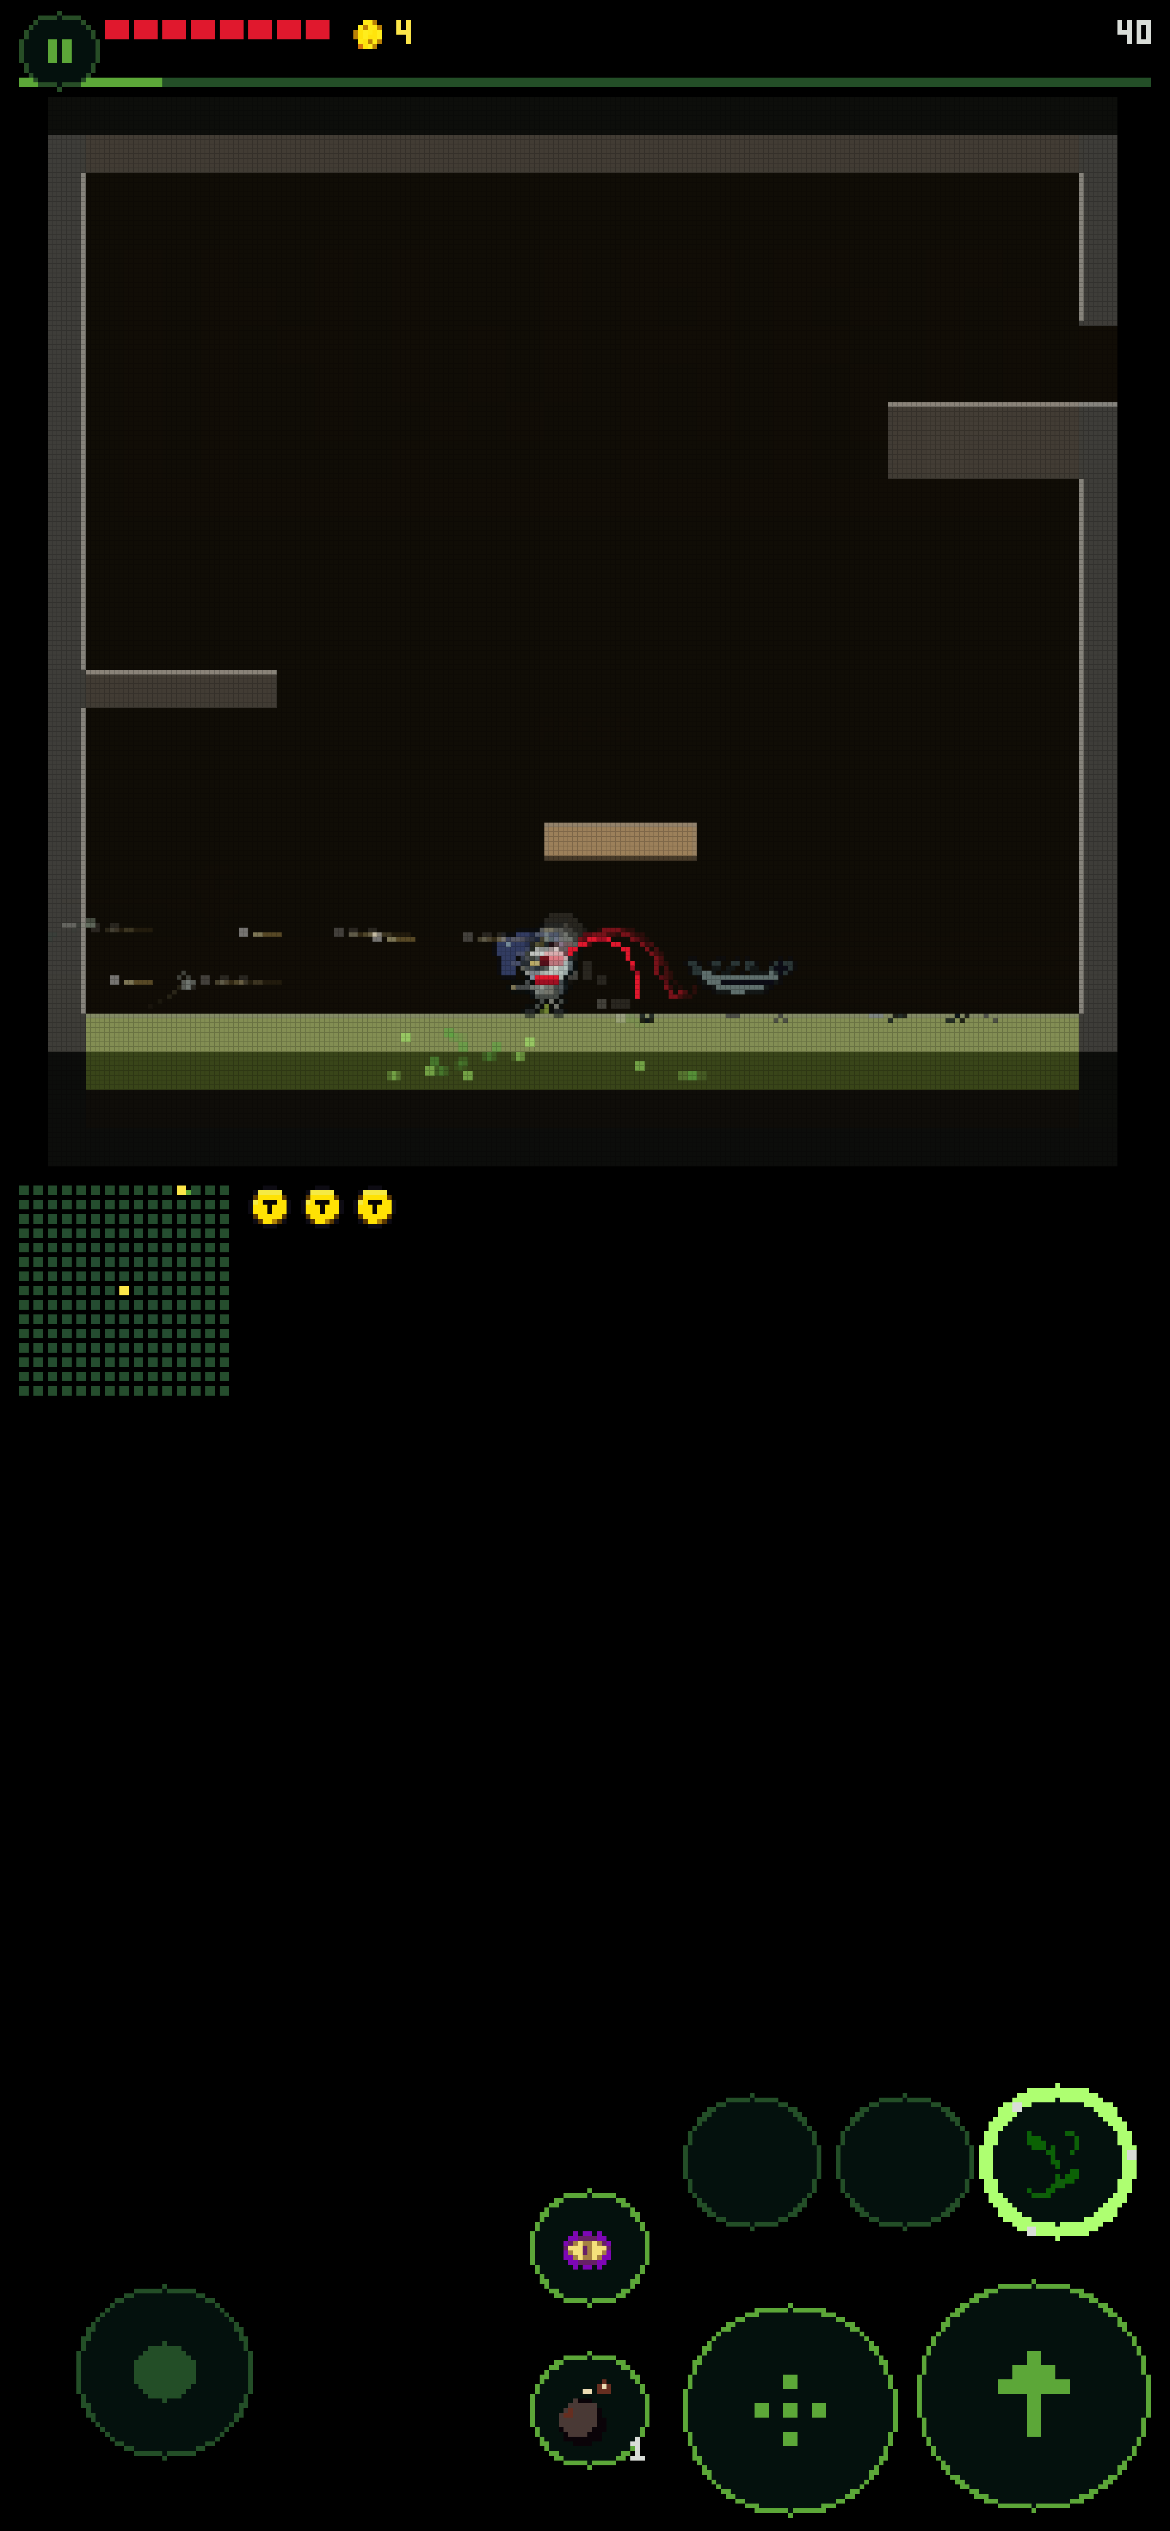
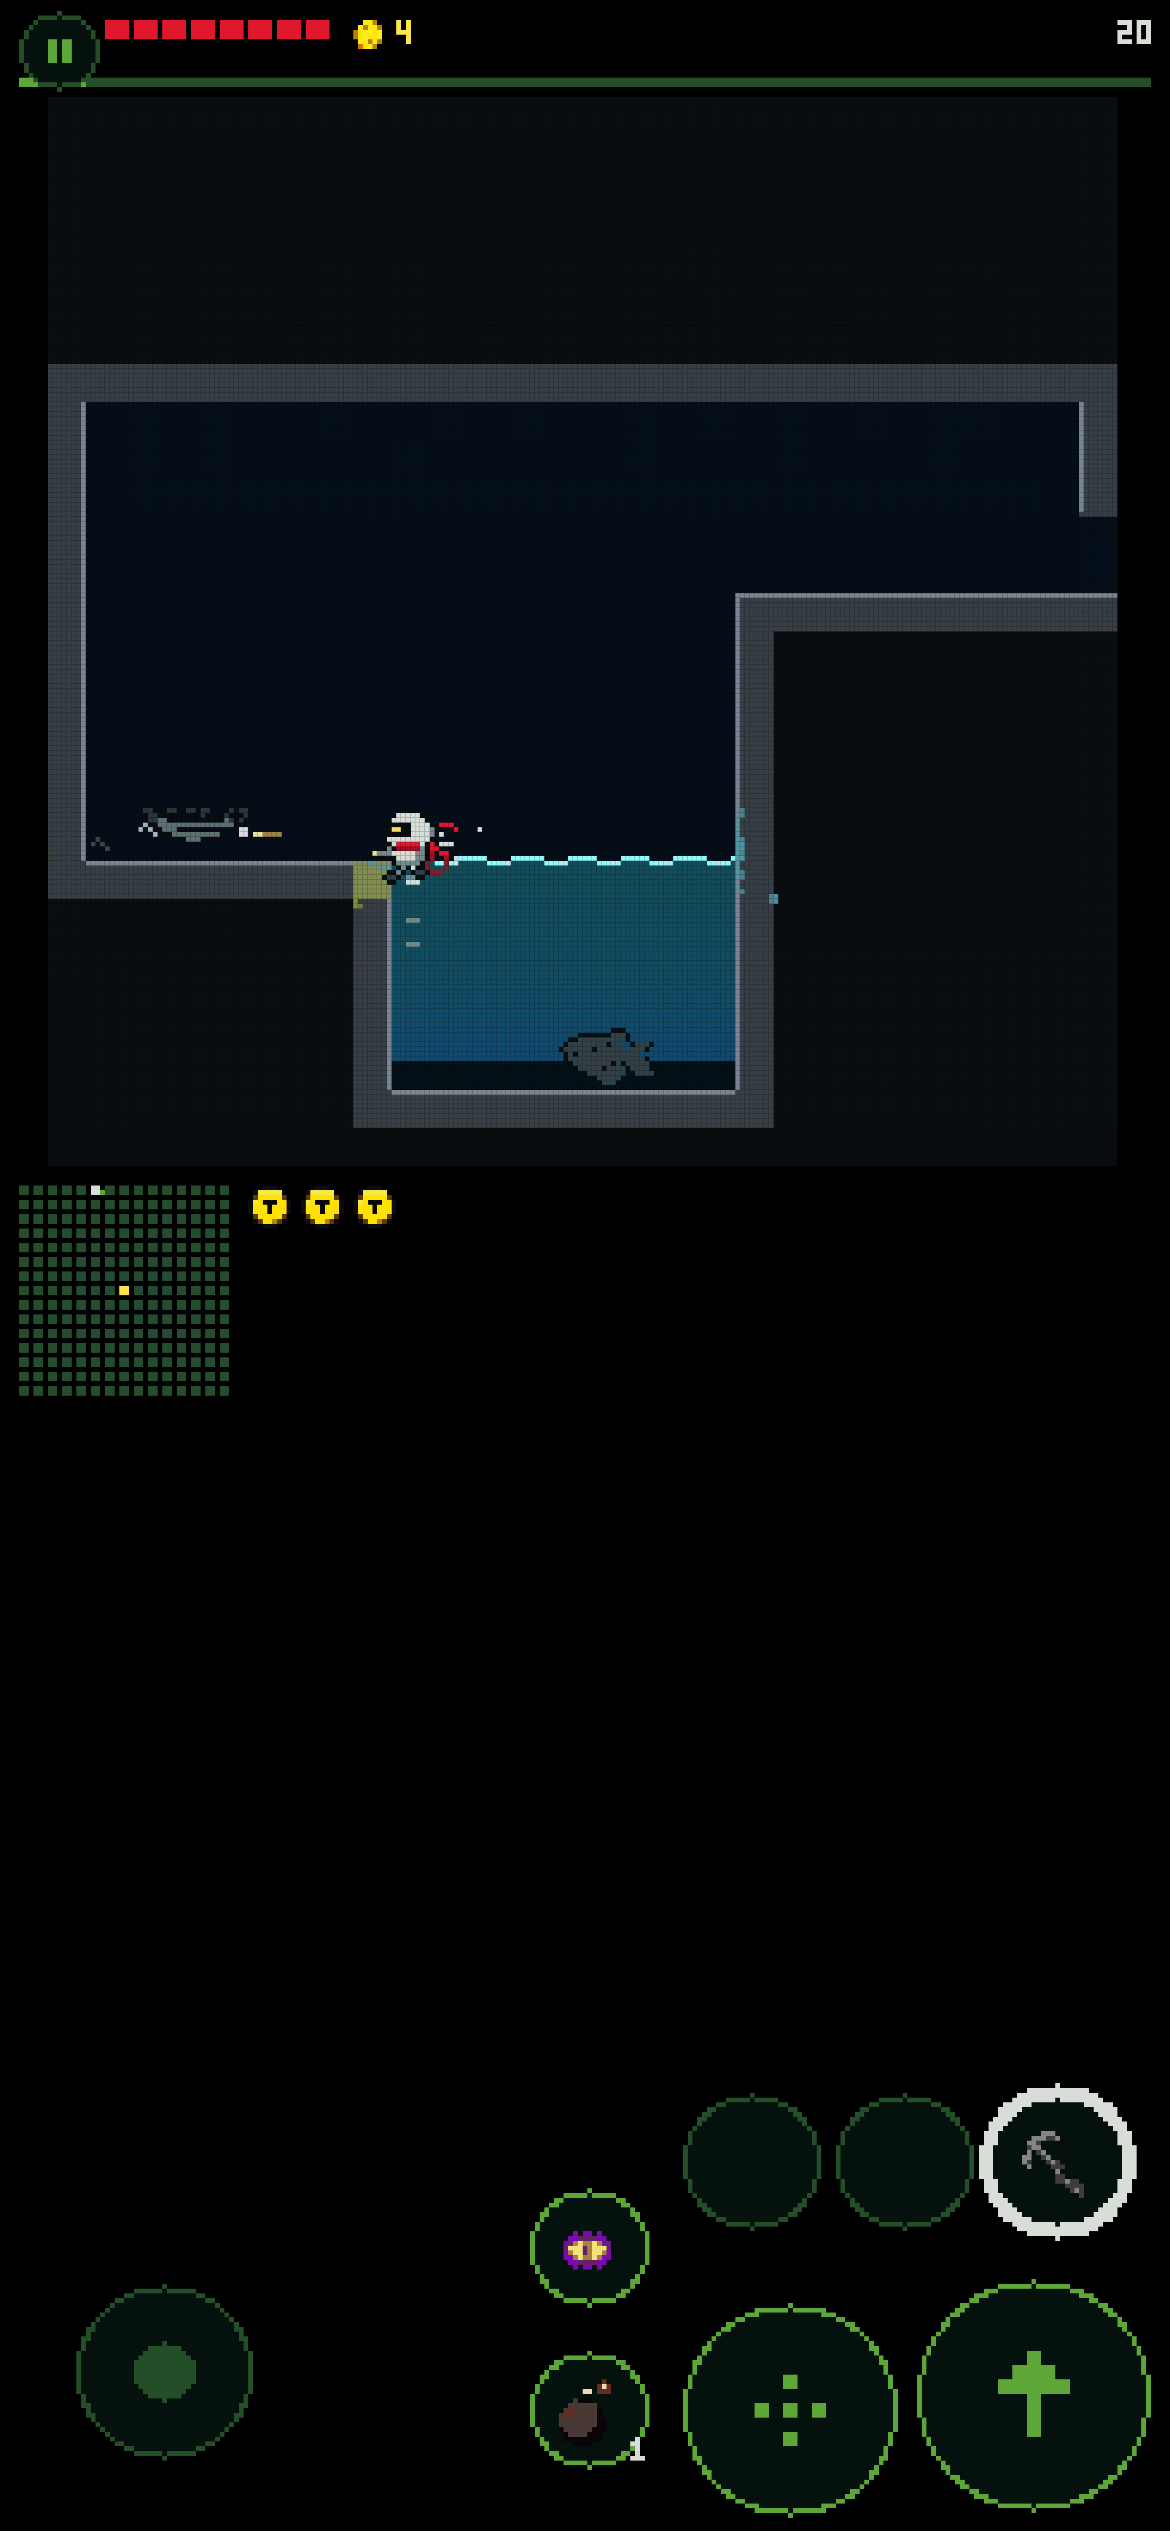
New powers are rarer and get a moment and a room of their own
Levels cost 40 experience per level reached, so upgrades come about 4.5
times less often than the original curve, and skill cards, miners and
hermits thin out to match. A level-up is a full heal.

Taking a skill or form, including swapping one in with full slots, slows
time for a beat with a burst in its colour. The next unvisited room is
built around it: the pockets and materials it acts on, a layout suited
to a movement skill, or a few extra foes for a control skill.

diff --git a/src/game.js b/src/game.js
@@ -12,10 +12,10 @@ import { contactBox, shotBox } from './cast.js'
 import { ENEMY_DEFS, STEPPERS, clampToRoom, createEnemy, lineClear, onDeath, puppeted, seatEnemy, settleFooting, steerPuppet } from './enemies.js'
 import { swim } from './earth.js'
 import { FORKS, SKILLS, SKILL_DETAILS, SKILL_NAMES, TREES, cooldownOf, formOf, landSlam, muzzle, openFork, owns, pourAcid, recordTrail, releaseMatter, ring, salvage, spillMatter, spillNapalm, stepDash, torchNear } from './skills.js'
-import { feedEvent, stepFeeds, stepHand } from './feed.js'
+import { feedColour, feedEvent, stepFeeds, stepHand } from './feed.js'
 import { composeOffer } from './offers.js'
 import { dust } from './feel.js'
-import { beginDoor, blastFx, chipsAt, coinMote, createFx, fallFx, impact, killFx, levelBurstDone, roomClearFx, shotFx, splash, stepFx, timeScale, wallHitFx, xpMotes } from './fx.js'
+import { beginDoor, blastFx, chipsAt, coinMote, createFx, fallFx, impact, killFx, levelBurstDone, roomClearFx, shotFx, slowMo, splash, stepFx, timeScale, wallHitFx, xpMotes } from './fx.js'
 import { SKILL_ACTIONS, skillAction } from './controls.js'
 import { RELICS, RELIC_BY_ID, hasRelic } from './relics.js'
 import { stepEffectList } from './effects.js'
@@ -25,6 +25,7 @@ import { isCatalogued, isKnown, knownFrom, knownOf, meet, pickSecrets, plantsFor
 import { OMENS, applyOmens, omenFoes, omenTheme } from './omens.js'
 import { buildArena, openArena, stepArena } from './wardens.js'
 import { exitsFrom } from './reach.js'
+import { stageFor } from './showcase.js'
 import { KEYSTONE_BY_ID, bombReady, bombThrown, castWait, crowdedOut, hasKeystone, heartCap, openKeystones, rechargeRate, slotsOf, stainColour, stainStrikes, stepKeystones } from './keystones.js'
 import { MUTATION_BY_ID, deepKill, mutateFoe, rollMutation, stepMutations } from './deep.js'
 import { emptyTally, noteKill, outwitted, wardedAgainst } from './wards.js'
@@ -251,8 +252,8 @@ const POCKET_HOOKS = {
   },
 }
 
-const thinFoes = (g, ring, foes) => {
-  const limit = R.foeLimit[ring] * (g.omens.includes('swarm') ? 1.6 : 1)
+const thinFoes = (g, ring, extra, foes) => {
+  const limit = R.foeLimit[ring] * (g.omens.includes('swarm') ? 1.6 : 1) + extra
   const kept = []
   const protectedKinds = new Set((g.secrets ?? []).map(key => key.split(':')[1]))
   let load = foes.filter(e => protectedKinds.has(e.kind)).reduce((n, e) => n + crowding(e), 0)
@@ -274,7 +275,9 @@ const buildRoom = (g, x, y) => {
   const depth = ring / CORE_RING
   const themeIndex = regionFor(g, ring)
   const arenaId = arenaFor(g, key, ring)
-  const special = start || arenaId ? {} : withPlant(g, ring, rollSpecial(g))
+  const showcase = start || arenaId || ring === CORE_RING ? null : stageFor(g.showcase)
+  if (showcase) g.showcase = null
+  const special = start || arenaId ? {} : { ...withPlant(g, ring, rollSpecial(g)), ...(showcase ? { layouts: showcase.layouts, crowd: showcase.crowd } : {}) }
   const definition = arenaId
     ? buildArena(arenaId, links)
     : start
@@ -283,7 +286,7 @@ const buildRoom = (g, x, y) => {
         seed: g.seed + x * 7919 + y * 104723,
         depth,
         links: resolveLinks(g, links, depth),
-        lean: lean(g),
+        lean: showcase ? { ...lean(g), ...Object.fromEntries(Object.entries(showcase.lean).filter(([, on]) => on)), full: true } : lean(g),
         special,
         theme: regionTheme(g, ring, themeIndex),
         themeIndex,
@@ -292,7 +295,7 @@ const buildRoom = (g, x, y) => {
   world.drains = definition.drains ?? []
   world.cold = THEMES[themeIndex]?.cold === true
   if (!arenaId && !start && ring !== CORE_RING) {
-    world.pockets = seedPockets(world, { ring, region: themeIndex, doors: definition.doors, brood: broodFor(g, ring), relics: g.relicPool.length > 0 })
+    world.pockets = seedPockets(world, { ring, region: themeIndex, doors: definition.doors, brood: broodFor(g, ring), relics: g.relicPool.length > 0, prefer: showcase?.pockets })
   }
   return {
     x, y, ring, links,
@@ -304,7 +307,7 @@ const buildRoom = (g, x, y) => {
     doors: definition.doors,
     world,
     arena: definition.arena,
-    enemies: thinFoes(g, ring, definition.enemies.map(createEnemy).map(seatEnemy(world)).filter(Boolean)).map(makeElite(g, ring)).map(dressEnemy(g, ring)).map(e => mutateFoe(g, e, themeIndex)),
+    enemies: thinFoes(g, ring, showcase?.crowd ?? 0, definition.enemies.map(createEnemy).map(seatEnemy(world)).filter(Boolean)).map(makeElite(g, ring)).map(dressEnemy(g, ring)).map(e => mutateFoe(g, e, themeIndex)),
     cards: definition.cards.map(createCard(g)),
     wares: (definition.wares ?? []).map(createWare(g)),
     pickups: [],
@@ -662,15 +665,21 @@ const unownedSkills = g => {
   return knownOf(g, 'skill').filter(s => !carried.has(s) && !lying.has(s))
 }
 
-const evolve = (g, skill, node) => {
-  const p = g.player
-  p.upgrades.add(node.id)
-  g.evolving = { skill, name: node.name, tint: node.tint, life: R.evolveLife }
-  const c = centre(p)
-  ring(g, c.x, c.y, node.tint, 32, 150)
+const unveil = (g, kind, tint) => {
+  const c = centre(g.player)
+  ring(g, c.x, c.y, tint, 32, 150)
+  ring(g, c.x, c.y, tint, 64, 90)
+  slowMo(g, R.unveilSlow, R.unveilScale)
   g.pulse = 1
   g.shake = Math.max(g.shake, 4)
-  p.iframes = Math.max(p.iframes, 0.6)
+  g.player.iframes = Math.max(g.player.iframes, 1.2)
+  g.showcase = kind
+}
+
+const evolve = (g, skill, node) => {
+  g.player.upgrades.add(node.id)
+  g.evolving = { skill, name: node.name, tint: node.tint, life: R.evolveLife }
+  unveil(g, skill, node.tint)
 }
 
 const learn = (g, kind) => {
@@ -679,8 +688,7 @@ const learn = (g, kind) => {
   g.cardPool = g.cardPool.filter(s => s !== kind)
   showToast(g, SKILL_NAMES[kind], SKILL_DETAILS[kind])
   g.toast.prompts = [skillAction(p.skills.length - 1)]
-  g.pulse = 1
-  g.shake = Math.max(g.shake, 3)
+  unveil(g, kind, feedColour({ kind }))
   if (!g.awake) {
     g.awake = true
     g.depth = g.depthOverride ?? depthFor(g, g.ring)
@@ -697,6 +705,7 @@ const learnOrSwap = (g, kind, onTake = () => {}, onLeave = () => {}) => {
   openSwap(g, kind, gm => {
     gm.cardPool = gm.cardPool.filter(s => s !== kind)
     showToast(gm, SKILL_NAMES[kind], SKILL_DETAILS[kind])
+    unveil(gm, kind, feedColour({ kind }))
     onTake(gm)
   }, onLeave)
 }
@@ -769,7 +778,7 @@ const gainXp = (g, amount) => {
     g.level += 1
     g.nextLevel = R.firstLevel + (g.level - 1) * R.levelGrowth
     g.pendingOffers += 1
-    g.player.hp = Math.min(heartCap(g.player), g.player.hp + R.levelHeal)
+    g.player.hp = heartCap(g.player)
   }
 }
 

diff --git a/src/generate.js b/src/generate.js
@@ -168,7 +168,7 @@ const hangLoad = (grid, ceilings, x, theme) => {
 }
 
 const dress = (grid, { segments, pits }, floors, ceilings, depth, lean, rand, range, theme) => {
-  const help = 1 - depth
+  const help = lean.full ? 1 : 1 - depth
   for (const s of segments) {
     for (let x = s.from; x <= s.to; x++) if (rand() < 0.6) grid[s.floor][x] = theme.top
   }
@@ -694,12 +694,15 @@ const attempt = ({ seed, depth, links, lean, special, theme: region, themeIndex 
   const theme = aquatic ? { ...region, lava: 0 } : region
   const rand = seeded(seed)
   const range = (lo, hi) => lo + Math.floor(rand() * (hi - lo + 1))
-  const help = 1 - depth
+  const help = lean.full ? 1 : 1 - depth
 
   const grid = Array.from({ length: ROOM }, (_, y) =>
     Array.from({ length: ROOM }, (_, x) => (x === 0 || y === 0 || x === ROOM - 1 || y === ROOM - 1 ? '#' : 'R')))
 
-  const layoutName = aquatic ? 'cistern' : THEME_LAYOUTS[themeIndex][Math.floor(rand() * THEME_LAYOUTS[themeIndex].length)]
+  const roll = rand()
+  const choices = THEME_LAYOUTS[themeIndex]
+  const staged = choices.filter(name => (special.layouts ?? []).includes(name))
+  const layoutName = aquatic ? 'cistern' : (staged.length ? staged : choices)[Math.floor(roll * (staged.length || choices.length))]
   const shape = LAYOUTS[layoutName]
   const layout = walkFloors(rand, range, clamp(shape.pits + (theme.pits ?? 0) + (lean.water ? help * 0.2 : 0), 0, 1), shape)
   const floors = floorsByColumn(layout)
@@ -776,6 +779,10 @@ const attempt = ({ seed, depth, links, lean, special, theme: region, themeIndex 
   }
   if (special.event === 'arena') {
     for (const s of layout.segments.slice(1)) placeFoe(pickFoe(theme, rand, enemies), s, grid, ceilings, range, enemies)
+  }
+  for (let n = 0; n < (special.crowd ?? 0); n++) {
+    const s = layout.segments[1 + Math.floor(rand() * Math.max(1, layout.segments.length - 1))] ?? layout.segments[0]
+    placeFoe(pickFoe(theme, rand, enemies), s, grid, ceilings, range, enemies)
   }
   mendTraps(grid, anchors)
   const ok = passes(grid, anchors, goals)

diff --git a/src/showcase.js b/src/showcase.js
@@ -1,0 +1,44 @@
+const stage = ({ lean = {}, pockets = [], layouts = [], crowd = 0 }) => ({
+  lean: { metal: false, water: false, fuel: false, scrap: false, ...lean },
+  pockets,
+  layouts,
+  crowd,
+})
+
+const FOES = stage({ crowd: 3 })
+
+const STAGES = {
+  ember: stage({ lean: { fuel: true }, pockets: ['marsh', 'tar'] }),
+  bolt: stage({ lean: { water: true, metal: true }, pockets: ['cistern', 'seam'] }),
+  frost: stage({ lean: { water: true }, pockets: ['cistern'] }),
+  melt: stage({ pockets: ['rime', 'vein'] }),
+  repel: stage({ lean: { metal: true, scrap: true }, pockets: ['seam'] }),
+  seed: stage({ lean: { water: true }, pockets: ['cistern'] }),
+  mason: stage({ layouts: ['chasm', 'islands'] }),
+  spring: stage({ lean: { water: true }, pockets: ['cistern', 'rime'], layouts: ['chimney'] }),
+  gust: stage({ lean: { fuel: true }, pockets: ['marsh'] }),
+  acid: stage({ lean: { metal: true }, pockets: ['seep'] }),
+  hammer: stage({ pockets: ['hopper'], layouts: ['caves', 'hall'] }),
+  alchemy: stage({ lean: { water: true, fuel: true }, pockets: ['cistern', 'tar', 'seep'] }),
+  flask: stage({ lean: { water: true, fuel: true }, pockets: ['cistern', 'tar'] }),
+  wick: stage({ lean: { fuel: true }, pockets: ['marsh', 'tar'] }),
+  clay: stage({ lean: { water: true }, pockets: ['cistern', 'vein'] }),
+  burrow: stage({ lean: { water: true }, pockets: ['hopper'], layouts: ['tunnels', 'caves'] }),
+  lens: stage({ pockets: ['hopper', 'rime'] }),
+  chime: stage({ pockets: ['rime'] }),
+  grapple: stage({ layouts: ['chasm', 'chimney'] }),
+  float: stage({ layouts: ['chasm', 'islands'] }),
+  blink: stage({ layouts: ['tunnels', 'caves'] }),
+  dash: stage({ crowd: 2, layouts: ['hall'] }),
+  swap: FOES,
+  roar: FOES,
+  stop: FOES,
+  charm: FOES,
+  link: FOES,
+  mine: FOES,
+  well: FOES,
+  drone: FOES,
+  rewind: FOES,
+}
+
+export const stageFor = kind => STAGES[kind] ?? null

diff --git a/src/pockets.js b/src/pockets.js
@@ -101,12 +101,13 @@ const makePocket = (kind, spot, ring, brood) => {
   }
 }
 
-export const seedPockets = (world, { ring, region, doors, brood, relics }) => {
+export const seedPockets = (world, { ring, region, doors, brood, relics, prefer = [] }) => {
   const [first, second] = P.count[Math.min(ring, P.count.length - 1)]
-  const wanted = [first, second, ring >= 4 ? P.third : 0].filter(chance => Math.random() < chance).length
+  const fits = prefer.filter(kind => P.kinds[kind].ring <= ring).slice(0, 2)
+  const wanted = Math.max(fits.length, [first, second, ring >= 4 ? P.third : 0].filter(chance => Math.random() < chance).length)
   const pockets = []
   for (let n = 0; n < wanted; n++) {
-    const kind = pickKind(ring, region, relics, pockets)
+    const kind = fits[n] ?? pickKind(ring, region, relics, pockets)
     const spot = kind && findSpot(world, kind, doors, pockets, n % 2 === 0)
     if (spot) pockets.push(makePocket(kind, spot, ring, brood))
   }

diff --git a/src/config.js b/src/config.js
@@ -204,9 +204,9 @@ export const TUNING = {
   run: {
     ringBonus: 100,
     lockLean: 0.8,
-    cardChance: 0.05,
-    hermitChance: 0.027,
-    minerChance: 0.017,
+    cardChance: 0.033,
+    hermitChance: 0.018,
+    minerChance: 0.011,
     moleChance: 0.08,
     bombDropChance: 0.06,
     bombMercy: 0.3,
@@ -253,12 +253,13 @@ export const TUNING = {
     chainXpCap: 4,
     cleanCoins: 2,
     cleanChain: 6,
-    firstLevel: 18,
-    levelHeal: 6,
+    firstLevel: 34,
+    unveilSlow: 0.9,
+    unveilScale: 0.3,
     entryGrace: 2.2,
     rekindleAfter: 5,
     toastLife: 4,
-    levelGrowth: 18,
+    levelGrowth: 40,
     environmentXp: 3,
     coreBonus: 1000,
     wakeDepth: 0.25,

diff --git a/CLAUDE.md b/CLAUDE.md
@@ -131,10 +131,12 @@ effects must spread across blocks visibly and be readable without text.
   "IT" read as machine-written. Name triggers the player can see, never hidden states like cold or fear.
 - Upgrades must evolve a skill into something that plays differently. He rejected "further",
   "wider" and "the same but slightly better" outright.
-- Levelling up and finding new skills was far too quick. He wants at least three times as long between each.
-  A level costs 18 experience per level reached, so a run gets a third as many level-ups at every point, and
-  skill cards, miners and hermits turn up a third as often. A level-up heals six hearts, keeping healing per room
-  where it was.
+- Levelling up and finding new skills was far too quick. He wants each new power to feel like "oh wow, I can do
+  this now", not "another one". A level costs 40 experience per level reached (less 6), about 4.5 times the gap
+  of the original curve at every point in a run, and skill cards, miners and hermits are as rare in proportion.
+  A level-up is a full heal. Gaining a skill or form slows time for a beat with a burst in its colour, and the
+  next unvisited room is built around it (`src/showcase.js`): the materials and pockets it acts on, a layout that
+  suits a movement skill, or extra foes for a control skill.
 - Creatures must look like they're standing on the blocks they're on, with no legs floating over
   ledges and bounding boxes that fit the creature. `scripts/footing.mjs` measures this. Hitboxes
   match the body and feet, and a smaller contact box keeps touching them forgiving.
